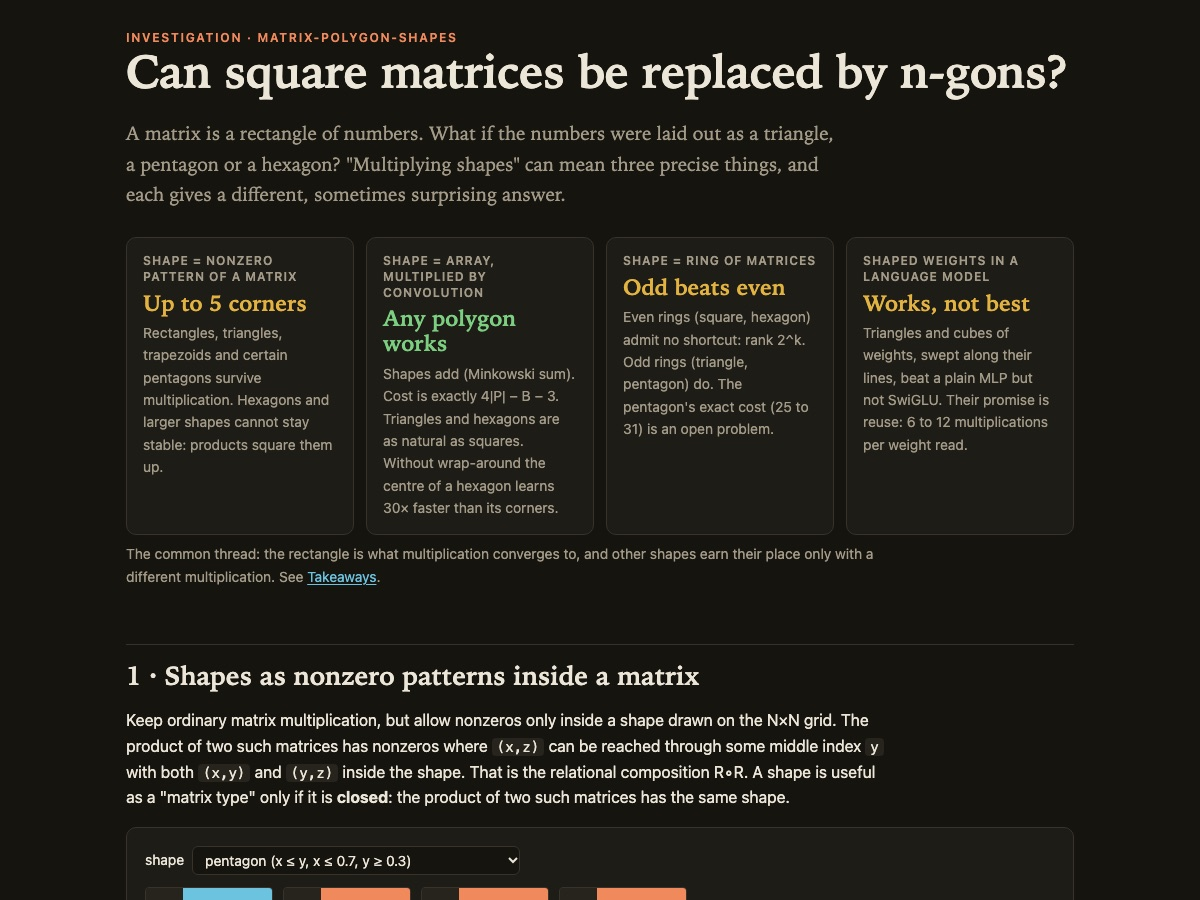
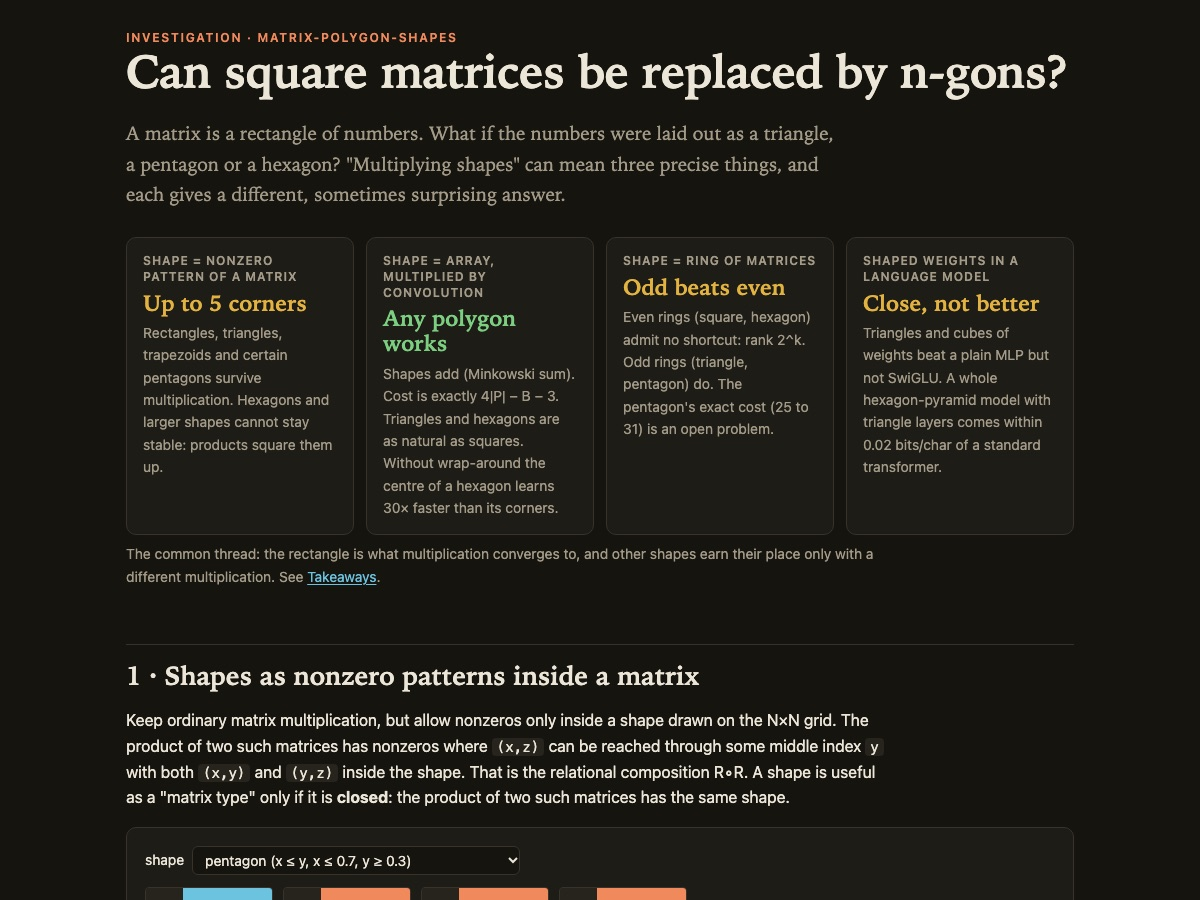
matrix-polygon-shapes: section 6, a whole language model in a shape (shape-llm)
Hexagon-pyramid design and the 3 -> 1 aperture-3 bottleneck (tiling checked in tests),
hexagonal vs triangle feed-forward results, fan-in normalisation, wrap / centre-lowered /
reversed triangle variants, interactive loss curves with seed-level tooltips. Takeaways,
card, honesty rows and FINDINGS updated. 52 Node tests.

Changed region(s): [[0.7092, 0.3111, 0.8633, 0.5289]]

diff --git a/matrix-polygon-shapes/index.html b/matrix-polygon-shapes/index.html
@@ -90,8 +90,8 @@ footer { margin-top: 64px; font-size: 13px; color: var(--muted); border-top: 1px
     <p>Shapes add (Minkowski sum). Cost is exactly 4|P| − B − 3. Triangles and hexagons are as natural as squares. Without wrap-around the centre of a hexagon learns 30× faster than its corners.</p></div>
   <div class="card"><div class="label">Shape = ring of matrices</div><div class="big meh">Odd beats even</div>
     <p>Even rings (square, hexagon) admit no shortcut: rank 2^k. Odd rings (triangle, pentagon) do. The pentagon's exact cost (25 to 31) is an open problem.</p></div>
-  <div class="card"><div class="label">Shaped weights in a language model</div><div class="big meh">Works, not best</div>
-    <p>Triangles and cubes of weights, swept along their lines, beat a plain MLP but not SwiGLU. Their promise is reuse: 6 to 12 multiplications per weight read.</p></div>
+  <div class="card"><div class="label">Shaped weights in a language model</div><div class="big meh">Close, not better</div>
+    <p>Triangles and cubes of weights beat a plain MLP but not SwiGLU. A whole hexagon-pyramid model with triangle layers comes within 0.02 bits/char of a standard transformer.</p></div>
 </div>
 <p class="cap" style="font-size:14px">The common thread: the rectangle is what multiplication converges to, and other shapes earn their place only with a different multiplication. See <a href="#takeaways">Takeaways</a>.</p>
 
@@ -374,6 +374,72 @@ The question is not whether it saves operations, but whether the shape gives the
 A hexagonal local + skip + random mask is a natural sparse attention for such data. Choosing wrap-around or not decides whether the border learns as fast as the middle.</p>
 
 <!-- ======================================================================================= -->
+<h2>6 · A whole language model in a shape</h2>
+<p>The experiments above swap one layer. <a href="../shape-llm/">shape-llm</a> builds a whole small character-level model around a shape.
+Every token's hidden state is a <b>hexagon of feature cells</b>, shrinking through the network like an image pyramid.</p>
+<div class="panel tablewrap"><table>
+  <tr><th>blocks</th><th class="num">hexagon radius</th><th class="num">cells</th><th class="num">channels per cell</th><th class="num">features</th></tr>
+  <tr><td>1–2</td><td class="num">12</td><td class="num">469</td><td class="num">2</td><td class="num">938</td></tr>
+  <tr><td>3–4</td><td class="num">6</td><td class="num">127</td><td class="num">6</td><td class="num">762</td></tr>
+  <tr><td>5–6</td><td class="num">3</td><td class="num">37</td><td class="num">16</td><td class="num">592</td></tr>
+</table></div>
+<ul>
+  <li><b>Each block</b> has attention across tokens, then a feed-forward that is either <i>hexagonal</i> (each cell mixes with its 6 neighbours) or the <i>triangle</i> layer of section 4.</li>
+  <li><b>Between levels, 3 neighbouring cells become 1.</b> The small triangles {(q, r), (q+1, r), (q, r+1)}, one per point with q − r divisible by 3, tile the grid exactly. Their positions form a coarser hexagonal grid, rotated 30° and scaled √3. Cropping to radius 6 and 3 drops the outer band of cells.</li>
+  <li><b>The baseline</b> is an ordinary transformer with the same depth and parameter count.</li>
+</ul>
+<h3>Hexagonal feed-forward: clearly worse</h3>
+<div class="panel tablewrap"><table>
+  <tr><th>model (2,000 steps, 2 seeds)</th><th class="num">parameters</th><th class="num">val bits/char</th></tr>
+  <tr><td>standard transformer</td><td class="num">2.59M</td><td class="num"><b>2.992</b></td></tr>
+  <tr><td>hexagonal, one shared 7-tap kernel (attention holds 89% of the parameters)</td><td class="num">2.63M</td><td class="num">3.342</td></tr>
+  <tr><td>standard transformer</td><td class="num">2.25M</td><td class="num"><b>3.023</b></td></tr>
+  <tr><td>hexagonal, each cell its own neighbour weights</td><td class="num">2.33M</td><td class="num">3.259</td></tr>
+  <tr><td>… plus neighbour-count normalisation (edge cells boosted)</td><td class="num">2.33M</td><td class="num">3.254</td></tr>
+</table></div>
+<ul>
+  <li><b>It learns the centre-first importance order again.</b> At the radius-3 level, which the output reads in full, trimming the outer ring first costs +0.18 against +0.32 for random cells, and the edge activations are about 35% weaker. At the larger levels the crop builds part of that order in.</li>
+</ul>
+<h3>Turning the centre down</h3>
+<p>Centre outputs collect many more products, so perhaps more noise. The non-wrapped hexagonal layer of section 5 was scaled so the corners keep weight 1 and the centre gets less:</p>
+<div class="panel tablewrap"><table>
+  <tr><th>hexagonal layer, no wrap (tiny model, 1,500 steps)</th><th class="num">val bits/char</th><th>effect</th></tr>
+  <tr><td>unscaled (centre 91 products, corners 1)</td><td class="num"><b>3.324</b></td><td>centre-first order; training grows the edge weights to compensate</td></tr>
+  <tr><td>centre × 1/√fan-in</td><td class="num">3.330</td><td>balanced: centre and edges contribute equally, no order, no compensation</td></tr>
+  <tr><td>centre × 1/fan-in</td><td class="num">3.392</td><td>over-corrected: the edges become most important</td></tr>
+</table></div>
+<p>No sign that the centre's larger sums were harmful noise: 1/√ balances the layer at no cost, and 1/fan-in overshoots.</p>
+<h3>Triangle feed-forward: almost a standard transformer</h3>
+<p>Same pyramid and bottlenecks, but every block uses the triangle layer, swept at 0°, 60° and 120°.
+<b>Without wrap-around</b> the line at index i holds n − i weights, so long lines are the triangle's "centre". <b>With wrap-around</b> the triangle closes into a torus and every line is equally long.
+"Centre lowered" scales each output by (products)^−½; "reversed" by (products ÷ max)^½; "average 1" renormalises so only the balance changes, not the overall size.</p>
+<div class="panel tablewrap"><table>
+  <tr><th>full pyramid model (1,000 steps, 2 seeds)</th><th class="num">val bits/char</th></tr>
+  <tr><td>standard transformer</td><td class="num"><b>3.384</b></td></tr>
+  <tr><td>triangle, no wrap, unscaled</td><td class="num"><b>3.407</b></td></tr>
+  <tr><td>triangle, wrap</td><td class="num">3.441</td></tr>
+  <tr><td>triangle, centre lowered, average 1</td><td class="num">3.465</td></tr>
+  <tr><td>triangle, centre lowered</td><td class="num">3.554</td></tr>
+  <tr><td>hexagonal feed-forward</td><td class="num">3.587</td></tr>
+</table>
+<div class="cap">One batch, same training text. A later batch (below and in the chart) re-ran the unscaled triangle and the transformer next to the reversed variants: transformer 3.404, triangle 3.423, reversed 3.420, reversed with average 1 <b>3.391</b>.</div></div>
+<div class="panel">
+  <div class="row" style="justify-content:space-between">
+    <svg id="lcFull" viewBox="0 0 440 300" width="100%" style="max-width:450px;flex:1;min-width:280px" role="img" aria-label="loss curves of the full pyramid model"></svg>
+    <svg id="lcTiny" viewBox="0 0 440 300" width="100%" style="max-width:450px;flex:1;min-width:280px" role="img" aria-label="loss curves of the single triangle layer"></svg>
+  </div>
+  <div class="stat" id="lcTip" style="min-height:1.4em"></div>
+  <div class="cap">Validation bits per character against training step, logged every 200 steps. First panel: the full pyramid model. Second: the single triangle layer in the tiny model. "rev." = reversed, "centre low." = centre lowered. Thin lines are seeds, bold lines the 2-seed mean; the two panels have their own y-scales. Hover a point for its value.</div>
+</div>
+<ul>
+  <li><b>The triangle rescues the pyramid.</b> It is 0.18 bits/char better than the hexagonal feed-forward and within 0.02 of a standard transformer. So the pyramid and its 3 → 1 bottlenecks were not the problem; the hexagon's local 6-neighbour mixing was.</li>
+  <li><b>In the triangle, the centre is signal.</b> Its long lines carry the important features: dropping 20% of outputs costs +0.16 longest-first, +0.10 random, +0.05 shortest-first. Turning them down hurts, and training grows their output weights back. Turning them up (reversed) is free or slightly helpful. The asymmetry is the opposite of the hexagon, where lowering the centre was neutral.</li>
+  <li><b>Wrap or not is a wash</b>: slightly better in the single layer, slightly worse in the full model, both within seed noise.</li>
+  <li><b>The curves:</b> the transformer learns fastest early (3.79 at step 400 against 3.87–3.90 for the triangles), and the triangles catch up by step 1,000.
+    Every curve is still falling about 0.03–0.04 per 200 steps, and the seeds of the best variant end 0.19 apart. Longer runs with more seeds are needed before any 0.02–0.03 difference means anything.</li>
+</ul>
+
+<!-- ======================================================================================= -->
 <h2 id="takeaways">Takeaways</h2>
 <p><b>The common thread: the rectangle is the attractor.</b> A matrix is a rectangle because a linear map pairs every input with every output.
 Shapes drawn inside that rectangle drift back towards rectangles when you multiply. Every centred shape becomes its bounding box within 2–3 products.
@@ -392,6 +458,8 @@ And when the polygon describes how matrices are wired together (a ring), what ma
   <li><b>The three-way weights tolerate coarse rounding, the projections don't.</b> The cube's 49k three-way weights at 2 bits hurt less than one 33k MLP matrix at 2 bits. The sensitive part is the input projection, whose errors are multiplied together.</li>
   <li><b>Without wrap-around, a hexagon's centre learns about 30× faster than its corners</b>, because more products land there. Wrap-around makes learning uniform.</li>
   <li><b>Hexagonal blurs are exactly round up to 4th order</b> at every step; square blurs only become round slowly.</li>
+  <li><b>In a whole model, the triangle beats the hexagon by a wide margin.</b> A pyramid built on hexagonal feature cells with 3 → 1 bottlenecks came within 0.02 bits/char of a standard transformer once its feed-forward was the triangle layer, and stayed 0.2 behind with the hexagon's local mixing. The pyramid was never the problem.</li>
+  <li><b>The "centre" means different things in the two shapes.</b> In the triangle the long lines are signal (lowering them hurts, raising them is free); in the hexagon the centre-heavy sums were neither harmful nor needed (1/√ balancing changes nothing).</li>
   <li><b>A centre-heavy hexagonal layer learns an importance order without being asked.</b> In a language model, trimming its outer rings hurts 2–3× less than trimming at random. Meanwhile training partly fights the non-uniformity, growing the edge weights to make up for weaker edge activations.</li>
   <li><b>Exact search hits a wall quickly.</b> A SAT solver settles the triangle instantly. But it couldn't prove within 15 minutes that the square ring needs more than 15 products, a fact that a one-line flattening argument proves.</li>
 </ol>
@@ -469,10 +537,13 @@ The isotropy of hexagonal blurs and the power of random long-range links (BigBir
   <tr><td>Ring 1 + random far links connect a radius-8 hex map in 5 layers (one random draw)</td><td><span class="chip numeric">measured</span></td></tr>
   <tr><td>A hexagon of radius R on a torus is the cyclic group Z<sub>3R²+3R+1</sub> (hexagonal convolution = 1-D FFT)</td><td><span class="chip proven">proof + tests</span></td></tr>
   <tr><td>Hexagonal feed-forward layers are competitive with gated and bilinear blocks; the centre-heavy one orders its outputs by importance; ring-wise precision gives no gain</td><td><span class="chip numeric">measured, small</span></td></tr>
+  <tr><td>The up-triangles on q − r ≡ 0 (mod 3) tile the hexagonal grid exactly and their base points form a coarser hexagonal grid</td><td><span class="chip proven">proof + tests</span></td></tr>
+  <tr><td>Hexagon-pyramid model: hexagonal feed-forward 0.2–0.35 bits/char behind a standard transformer; triangle feed-forward within 0.02</td><td><span class="chip numeric">measured, small</span></td></tr>
+  <tr><td>Lowering the centre: neutral at 1/√ for the hexagon, harmful for the triangle; raising it (triangle) free or slightly helpful (differences ≤ 0.03, within seed noise)</td><td><span class="chip numeric">measured, noisy</span></td></tr>
 </table></div>
 
 <footer>
-Code: <code>sparsity/</code> (exact composition of shapes), <code>convolution/</code> (lattice shapes, Pick formula, normality), <code>rings/</code> (ring tensors, tensor surgery, rank search, GF(2) SAT), <code>llm/</code> (triangle-weight language-model experiment); write-up in <code>FINDINGS.md</code>.
+Code: <code>sparsity/</code> (exact composition of shapes), <code>convolution/</code> (lattice shapes, Pick formula, normality), <code>rings/</code> (ring tensors, tensor surgery, rank search, GF(2) SAT), <code>llm/</code> (triangle-weight language-model experiment), and the whole-model experiments in <a href="../shape-llm/"><code>../shape-llm/</code></a>; write-up in <code>FINDINGS.md</code>.
 References: M. Christandl, J. Zuiddam, <a href="https://arxiv.org/abs/1606.04085"><i>Tensor surgery and tensor rank</i></a>;
 H. Buhrman et al., <a href="https://drops.dagstuhl.de/entities/document/10.4230/LIPIcs.ITCS.2017.24"><i>Nondeterministic quantum communication complexity: the cyclic equality game and iterated matrix multiplication</i></a>;
 <a href="https://en.wikipedia.org/wiki/Pick%27s_theorem">Pick's theorem</a>; <a href="https://en.wikipedia.org/wiki/Crystallographic_restriction_theorem">crystallographic restriction</a>;
@@ -739,7 +810,20 @@ const MP = (() => {
     const N = 3 * R * R + 3 * R + 1, phi = (q, r) => ((((R + 1) * q - R * r) % N) + N) % N;
     return { N, phi };
   }
-  return { hexPhi, HEX_DIRS, hexDist, hexCells, hexWrapper, hexProductCounts, hexLearningSpeed, hexMask, layersToCover, blurAnisotropy,
+
+  // ---------- 6. shape-llm: the "3 neighbours → 1 cell" bottleneck ----------
+  // Up-triangles {b, b+(1,0), b+(0,1)} with base points on q − r ≡ 0 (mod 3) tile the hexagonal grid exactly; the base
+  // points form a coarser hexagonal grid (aperture 3): base (q, r) with c = (q − r)/3 → coarse cell (r + 2c, −c).
+  function coarseOf([q, r]) { const c = (q - r) / 3; return [r + 2 * c, -c]; }
+  function triangleTiling(R) {             // how many triangles cover each cell of the hexagon of radius R
+    const cover = new Map();
+    for (let q = -R - 3; q <= R + 3; q++) for (let r = -R - 3; r <= R + 3; r++) {
+      if (((q - r) % 3 + 3) % 3) continue;
+      for (const [dq, dr] of [[0, 0], [1, 0], [0, 1]]) { const k = (q + dq) + "," + (r + dr); cover.set(k, (cover.get(k) || 0) + 1); }
+    }
+    return hexCells(R).map(([q, r]) => cover.get(q + "," + r) || 0);
+  }
+  return { coarseOf, triangleTiling, hexPhi, HEX_DIRS, hexDist, hexCells, hexWrapper, hexProductCounts, hexLearningSpeed, hexMask, layersToCover, blurAnisotropy,
            tetCells, tetSweeps, quarticEnergy, cubeSweeps, cubeEnergy, gradCheck, mulberryLike, triCells, triSweeps, cubicEnergy, regularPolygon, pattern, boolMul, density, subset, cost, triangle, square, hexagon, latticePolygon, minkowski, hull,
            boundaryCount, latticePointsOf, shapeArray, ringEntries, strassenTriangle, surgery, verifyRing, flatteningRank, set, key };
 })();
@@ -821,6 +905,10 @@ const MPTests = {
       t(`hex torus R=${R} ≅ Z_${N}: φ is a bijection and kills both tiling translations`,
         img.size === N && phi(2 * R + 1, -R) === 0 && phi(R, R + 1) === 0);
     }
+
+    t("shape-llm bottleneck: up-triangles on q − r ≡ 0 (mod 3) cover every cell exactly once", MP.triangleTiling(12).every(c => c === 1));
+    t("shape-llm bottleneck: the base points form a hexagonal grid (6 nearest map to the 6 directions)",
+      [[1, 1], [2, -1], [-1, 2], [-1, -1], [-2, 1], [1, -2]].map(MP.coarseOf).map(c => c.join(",")).sort().join(" ") === MP.HEX_DIRS.map(c => c.join(",")).sort().join(" "));
     const failed = res.filter(x => !x[1]);
     if (typeof console !== "undefined") console.log(`MPTests: ${res.length - failed.length}/${res.length} passed` + (failed.length ? "\nFAILED: " + failed.map(x => x[0]).join(", ") : ""));
     return failed.length === 0;
@@ -1031,6 +1119,35 @@ function ringStatsChart() {
   $("ringStats").innerHTML = g;
 }
 
+const LC = {"full": {"base2|0": [[200, 4.145], [400, 3.7661], [600, 3.5504], [800, 3.4112], [1000, 3.3821]], "base2|1": [[200, 4.1695], [400, 3.8155], [600, 3.5835], [800, 3.4534], [1000, 3.4267]], "triR|1": [[200, 4.1545], [400, 3.9153], [600, 3.6587], [800, 3.5089], [1000, 3.477]], "triR|0": [[200, 4.1346], [400, 3.8819], [600, 3.5828], [800, 3.405], [1000, 3.3625]], "triRN|1": [[200, 4.1757], [400, 3.9], [600, 3.6802], [800, 3.5263], [1000, 3.4876]], "triRN|0": [[200, 4.146], [400, 3.8358], [600, 3.5165], [800, 3.3384], [1000, 3.2941]], "tri|1": [[200, 4.1628], [400, 3.9143], [600, 3.686], [800, 3.5242], [1000, 3.4797]], "tri|0": [[200, 4.1361], [400, 3.8885], [600, 3.5838], [800, 3.4038], [1000, 3.3664]]}, "tiny": {"triRN|1": [[200, 4.1421], [400, 3.8971], [600, 3.6638], [800, 3.5781], [1000, 3.5427]], "triRN|0": [[200, 4.1651], [400, 3.8358], [600, 3.6802], [800, 3.5783], [1000, 3.5313]], "tri|0": [[200, 4.1608], [400, 3.8426], [600, 3.6838], [800, 3.5754], [1000, 3.5329]], "tri|1": [[200, 4.1406], [400, 3.9014], [600, 3.6719], [800, 3.5769], [1000, 3.5423]], "triW|1": [[200, 4.1659], [400, 3.8754], [600, 3.6495], [800, 3.5375], [1000, 3.5037]], "triW|0": [[200, 4.154], [400, 3.8262], [600, 3.6691], [800, 3.5556], [1000, 3.5157]], "triSN|0": [[200, 4.1593], [400, 3.8576], [600, 3.6965], [800, 3.5925], [1000, 3.5514]], "triSN|1": [[200, 4.1405], [400, 3.9114], [600, 3.6843], [800, 3.5772], [1000, 3.5482]]}};
+function lossCurves() {
+  const panels = [["lcFull", LC.full, "Full pyramid model", [["base2", "transformer", "#2a78d6"], ["tri", "triangle", "#eb6834"], ["triR", "reversed", "#1baf7a"], ["triRN", "rev., avg 1", "#eda100"]]],
+                  ["lcTiny", LC.tiny, "Single triangle layer", [["tri", "unscaled", "#eb6834"], ["triSN", "centre low., avg 1", "#e87ba4"], ["triRN", "rev., avg 1", "#eda100"], ["triW", "wrap", "#008300"]]]];
+  for (const [id, data, title, series] of panels) {
+    const W = 440, H = 300, L = 44, R = 150, T = 26, B = 34, all = Object.values(data).flat().map(p => p[1]);
+    const lo = Math.floor(Math.min(...all) * 10) / 10, hi = Math.ceil(Math.max(...all) * 10) / 10;
+    const X = s => L + (s - 200) / 800 * (W - L - R), Y = v => T + (hi - v) / (hi - lo) * (H - T - B);
+    let g = `<text x="${L}" y="14" style="font-size:13px;fill:var(--ink)">${title}</text>`;
+    for (let v = lo; v <= hi + 1e-9; v += 0.2) g += `<line x1="${L}" x2="${W - R}" y1="${Y(v)}" y2="${Y(v)}" stroke="${css("--rule")}"/>` + (v > lo + 1e-9 ? `<text x="${L - 6}" y="${Y(v) + 4}" text-anchor="end">${v.toFixed(1)}</text>` : "");
+    for (const st of [200, 400, 600, 800, 1000]) g += `<text x="${X(st)}" y="${H - B + 15}" text-anchor="middle">${st}</text>`;
+    g += `<text x="${(L + W - R) / 2}" y="${H - 4}" text-anchor="middle">training step</text>`;
+    const ends = [];
+    for (const [k, name, col] of series) {
+      const runs = [0, 1].map(sd => data[k + "|" + sd]).filter(Boolean);
+      for (const r of runs) g += `<polyline fill="none" stroke="${col}" stroke-opacity="0.35" stroke-width="1" points="${r.map(([st, v]) => X(st) + "," + Y(v)).join(" ")}"/>`;
+      const mean = runs[0].map(([st], i) => [st, runs.reduce((a, r) => a + r[i][1], 0) / runs.length]);
+      g += `<polyline fill="none" stroke="${col}" stroke-width="2.4" points="${mean.map(([st, v]) => X(st) + "," + Y(v)).join(" ")}"/>`;
+      g += mean.map(([st, v]) => `<circle cx="${X(st)}" cy="${Y(v)}" r="7" fill="transparent" data-tip="${name}, step ${st}: ${v.toFixed(3)} (seeds ${runs.map(r => r.find(p => p[0] === st)[1].toFixed(3)).join(", ")})"/><circle cx="${X(st)}" cy="${Y(v)}" r="3.2" fill="${col}" pointer-events="none"/>`).join("");
+      ends.push([Y(mean[mean.length - 1][1]), name, col, mean[mean.length - 1][1]]);
+    }
+    ends.sort((a, b) => a[0] - b[0]);
+    for (let i = 1; i < ends.length; i++) if (ends[i][0] - ends[i - 1][0] < 15) ends[i][0] = ends[i - 1][0] + 15;
+    for (const [y, name, col, v] of ends) g += `<rect x="${W - R + 8}" y="${y - 2}" width="12" height="4" rx="2" fill="${col}"/><text x="${W - R + 24}" y="${y + 4}" style="font-size:11px">${name} ${v.toFixed(3)}</text>`;
+    $(id).innerHTML = g;
+    $(id).querySelectorAll("[data-tip]").forEach(el => { el.onmouseenter = () => $("lcTip").textContent = el.dataset.tip; });
+  }
+}
+
 function ringDiagram() {
   let g = ""; const ks = [3, 4, 5, 6, 7, 8], w = 640 / ks.length;
   ks.forEach((k, idx) => {
@@ -1058,8 +1175,8 @@ $("tNew").onclick = () => { triState.seed++; triDemo(); };
 $("hWrap").oninput = hexDemo; $("hR").oninput = hexDemo; $("mKind").oninput = maskDemo; $("mL").oninput = maskDemo;
 document.querySelectorAll(".pc").forEach(tb => { const heads = [...tb.rows[0].cells].map(c => c.textContent);
   [...tb.rows].slice(1).forEach(r => [...r.cells].forEach((c, i) => c.dataset.label = heads[i])); });
-patternDemo(); convDemo(); convTable(); ringDiagram(); triDemo(); triBars(); sweepTable(); hexDemo(); maskDemo(); isoTable(); ordChart(); ringStatsChart(); setTimeout(hexSpeedChart, 60);
-matchMedia("(prefers-color-scheme: dark)").addEventListener("change", () => { patternDemo(); convDemo(); ringDiagram(); triDemo(); triBars(); hexDemo(); maskDemo(); hexSpeedChart(); ordChart(); ringStatsChart(); });
+patternDemo(); convDemo(); convTable(); ringDiagram(); triDemo(); triBars(); sweepTable(); hexDemo(); maskDemo(); isoTable(); ordChart(); ringStatsChart(); lossCurves(); setTimeout(hexSpeedChart, 60);
+matchMedia("(prefers-color-scheme: dark)").addEventListener("change", () => { patternDemo(); convDemo(); ringDiagram(); triDemo(); triBars(); hexDemo(); maskDemo(); hexSpeedChart(); ordChart(); ringStatsChart(); lossCurves(); });
 </script>
 </body>
 </html>

diff --git a/matrix-polygon-shapes/FINDINGS.md b/matrix-polygon-shapes/FINDINGS.md
@@ -124,6 +124,14 @@ Quantisation:
 - In shape-llm, normalising by neighbour count is a tie on quality (3.254 vs 3.259), with closer seeds.
 - No evidence that the centre's larger sums were harmful noise.
 
+## 8. A whole model in a shape (`../shape-llm/`)
+
+A pyramid of hexagonal feature cells (radius 12 → 6 → 3) with 3 → 1 triangle bottlenecks. The up-triangles on q − r ≡ 0 (mod 3) tile the grid exactly and form an aperture-3 hexagonal hierarchy.
+- With a hexagonal (6-neighbour) feed-forward it trails a parameter-matched transformer by 0.2–0.35 bits/char.
+- With the triangle feed-forward it comes within 0.02 (3.407 vs 3.384, 1,000 steps), so the local mixing was the problem, not the pyramid.
+- In the triangle, the long lines ("centre") are signal: lowering them hurts, raising them is free or slightly helpful (best mean 3.391 for the reversed, average-1 version). That is within seed noise at 1,000 steps.
+- Loss curves (page section 6, `../shape-llm/loss_curves.png`): the transformer learns fastest early, the triangles catch up, and everything is still falling at step 1,000.
+
 ## Takeaways
 
 **The rectangle is the attractor.**
